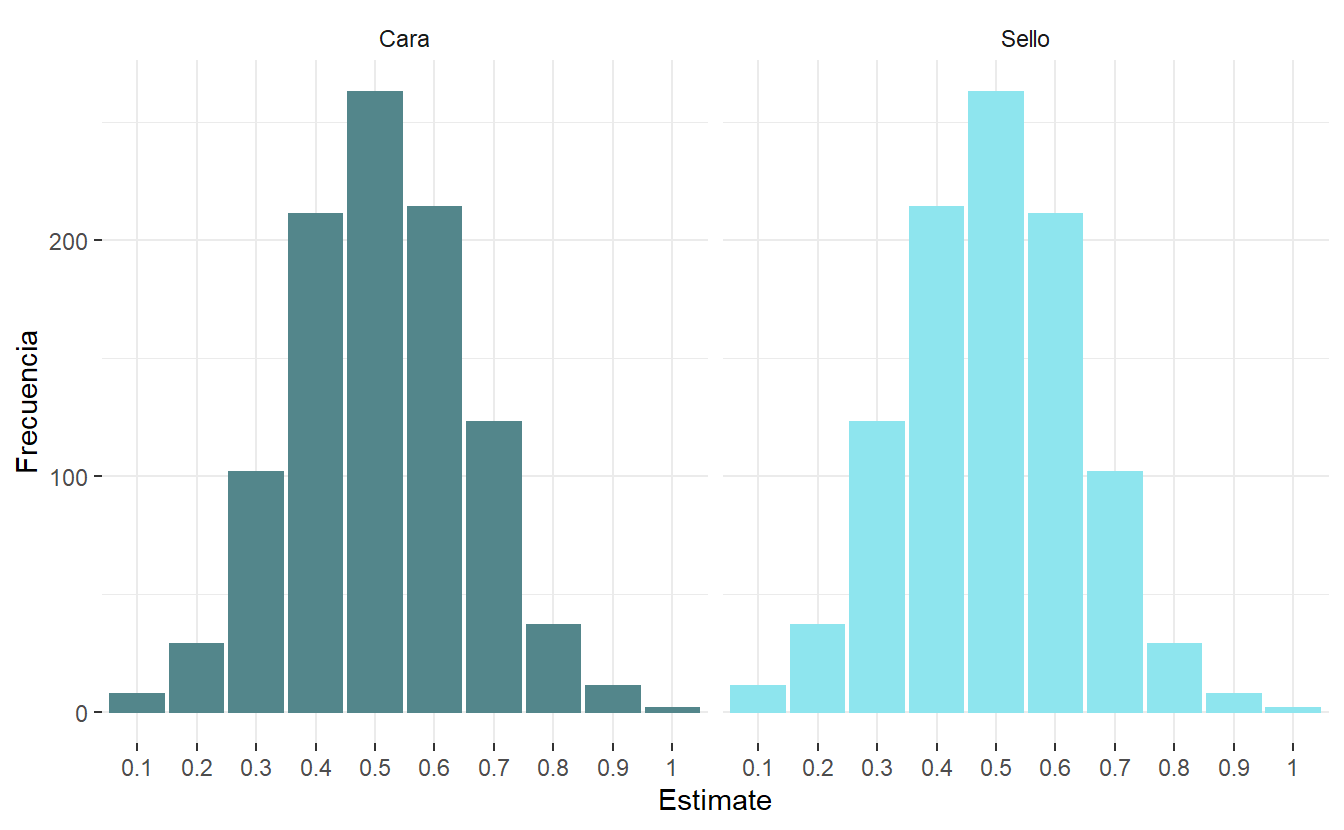
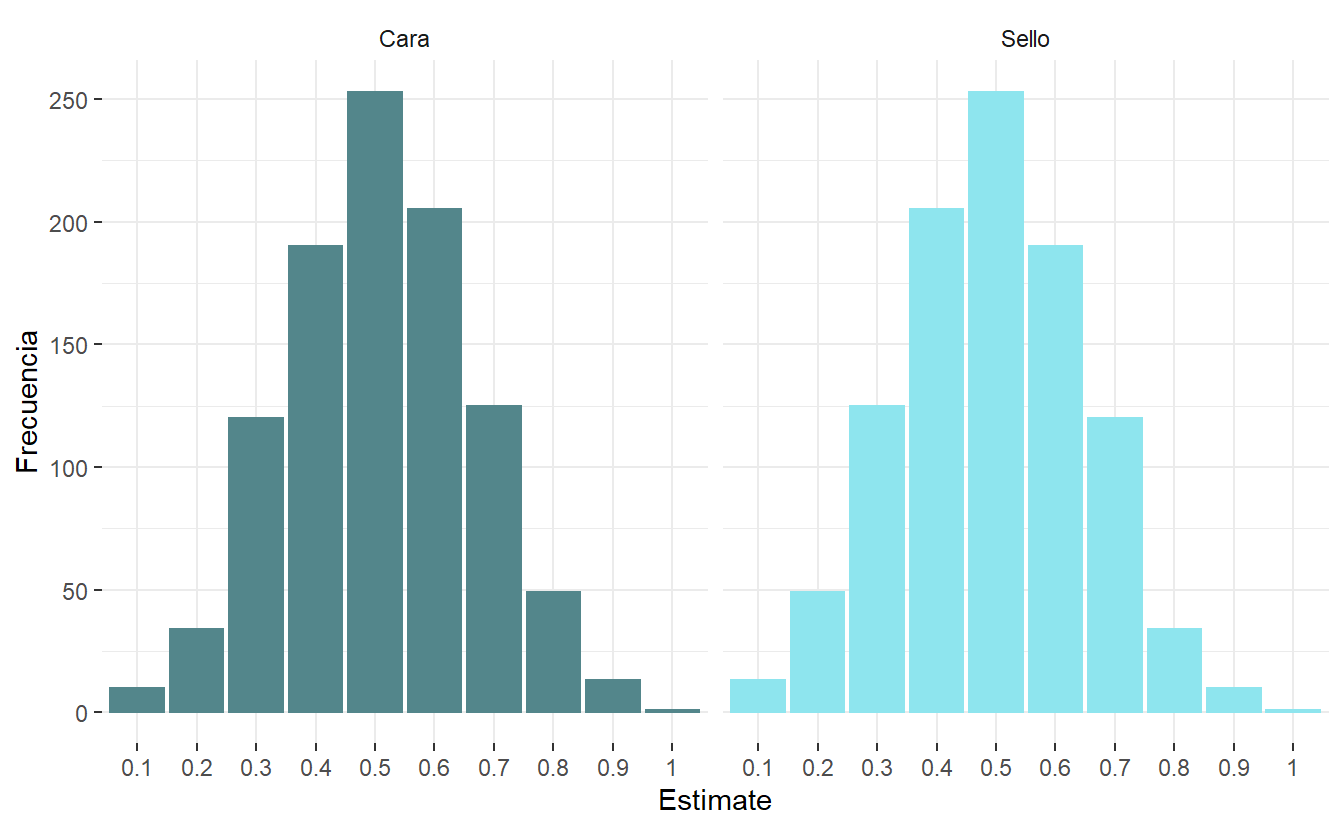
teoria prob

diff --git a/content/project/Teoria Probabilidad/index.md b/content/project/Teoria Probabilidad/index.md
@@ -66,7 +66,7 @@ Vamos hacer el siguiente experimento: lanzaremos una moneda 100 veces, y comprob
 
 <div class="highlight">
 
-<pre class='chroma'><code class='language-r' data-lang='r'><span class='c'>#&gt; Warning: No renderer available. Please install the gifski, av, or magick package to create animated output</span></code></pre>
+<img src="figs/unnamed-chunk-2-1.gif" width="700px" style="display: block; margin: auto;" />
 
 </div>
 
@@ -106,7 +106,7 @@ Exactamente, es el escenario donde se da el 50/50. ¿Y cuál es la medida promed
 <span class='c'>#&gt;   Resultado  mean</span>
 <span class='c'>#&gt;   <span style='color: #555555; font-style: italic;'>&lt;chr&gt;</span>     <span style='color: #555555; font-style: italic;'>&lt;dbl&gt;</span></span>
 <span class='c'>#&gt; <span style='color: #555555;'>1</span> Cara      0.509</span>
-<span class='c'>#&gt; <span style='color: #555555;'>2</span> Sello     0.493</span></code></pre>
+<span class='c'>#&gt; <span style='color: #555555;'>2</span> Sello     0.492</span></code></pre>
 
 </div>
 
@@ -128,7 +128,8 @@ Exactamente, es el escenario donde se da el 50/50. ¿Y cuál es la medida promed
 
 <span class='nv'>grafico</span> <span class='o'>&lt;-</span> <span class='nv'>grafico</span> <span class='o'>+</span> <span class='nf'><a href='https://rdrr.io/pkg/gganimate/man/transition_time.html'>transition_time</a></span><span class='o'>(</span><span class='nv'>year</span><span class='o'>)</span>
 <span class='nf'><a href='https://rdrr.io/pkg/gganimate/man/animate.html'>animate</a></span><span class='o'>(</span><span class='nv'>grafico</span>, fps <span class='o'>=</span> <span class='m'>15</span>, width <span class='o'>=</span> <span class='m'>750</span>, height <span class='o'>=</span> <span class='m'>450</span><span class='o'>)</span>
-<span class='c'>#&gt; Warning: No renderer available. Please install the gifski, av, or magick package to create animated output</span></code></pre>
+</code></pre>
+<img src="figs/unnamed-chunk-6-1.gif" width="700px" style="display: block; margin: auto;" />
 
 </div>
 
